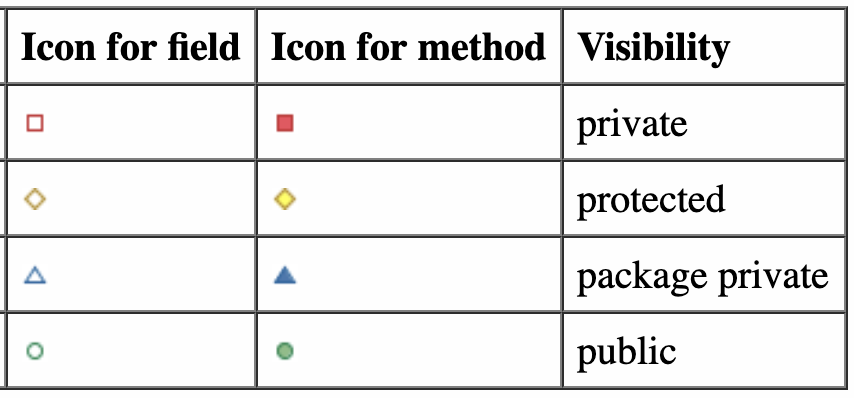
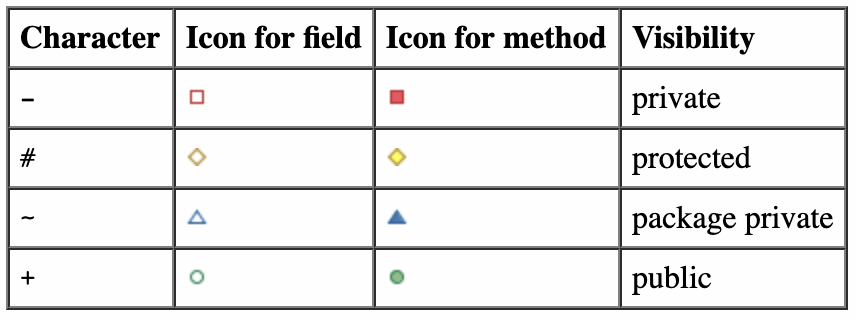
docs: Update image

Changed region(s): [[0.0, 0.0, 1.0, 1.0]]

diff --git a/docs/ClassStructure.md b/docs/ClassStructure.md
@@ -2,10 +2,11 @@
 
 In this document you can take a look at the system's class structure.
 
-The image below describes visibility for the classes in the diagram.
-
-![Defining Visibility](../images/visibility.png)
-
 ## Diagram
 
 ![Diagram](diagrams/ClassStructure.png)
+
+## PlantUML visibility
+The image below describes visibility for the classes in the diagram.
+
+![Defining Visibility](../images/visibility.png)
